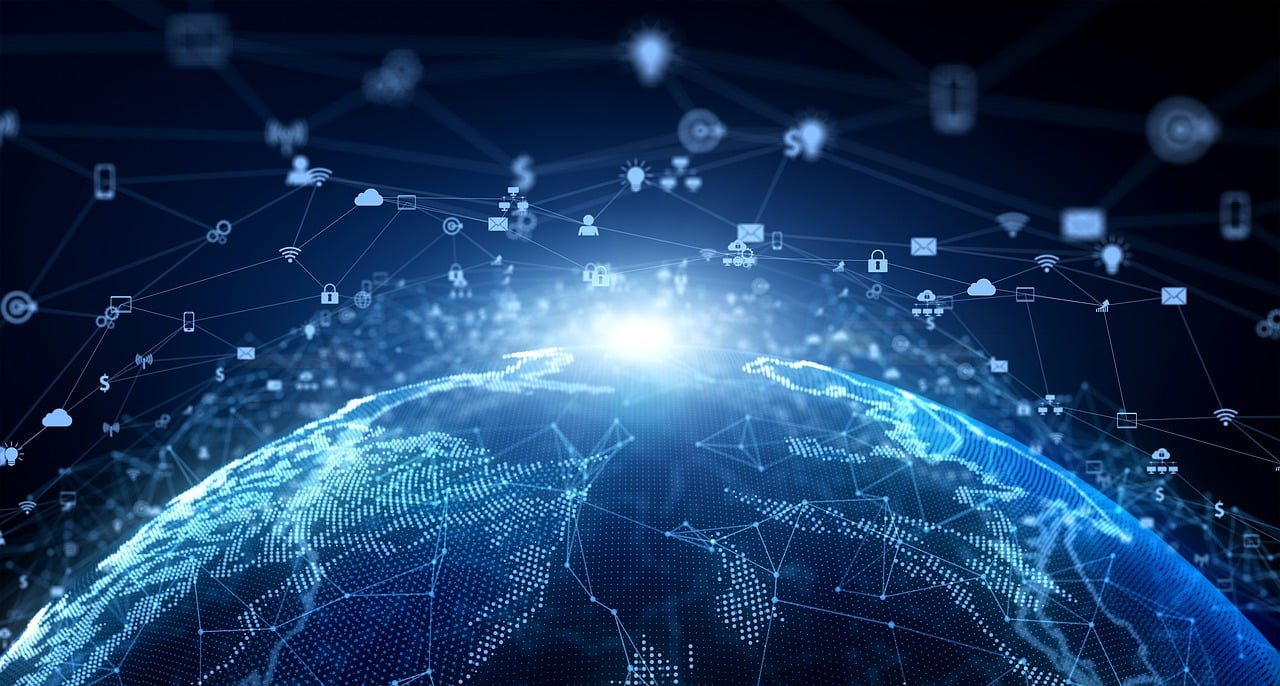
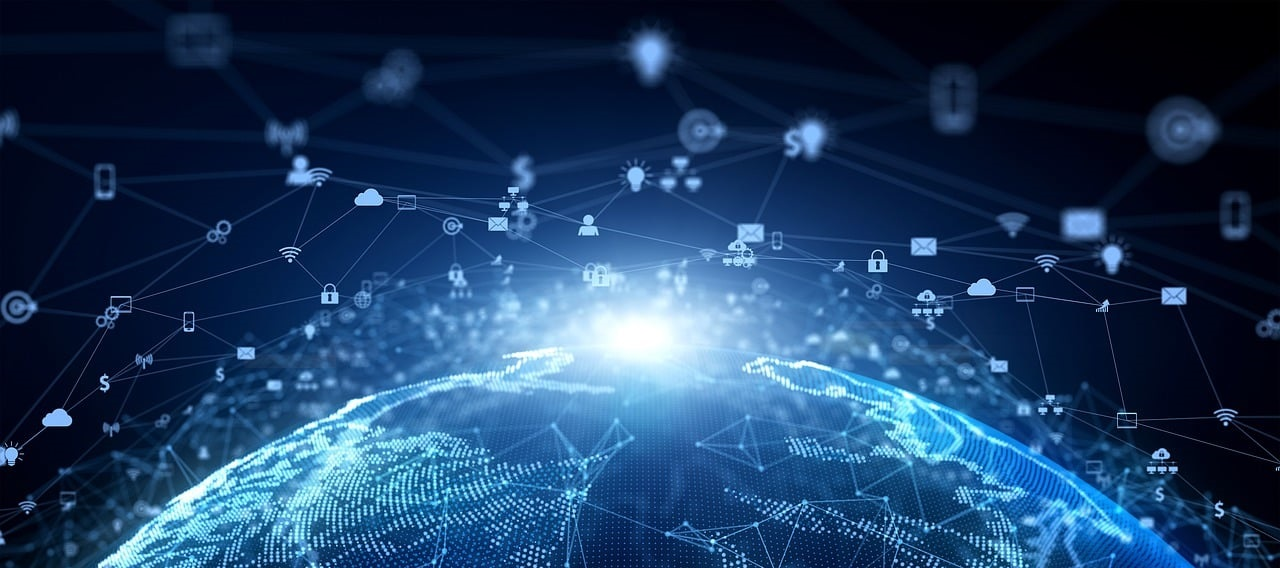
cambios de estilo

diff --git a/index.html b/index.html
@@ -19,7 +19,7 @@
       <div class="collapse navbar-collapse" id="navbarNav">
         <ul class="navbar-nav ms-auto">
           <li class="nav-item">
-            <a class="nav-link text-white" href="#locations">Ley general de protección de datos</a>
+            <a class="nav-link text-white" href="#lgpd">Ley general de protección de datos</a>
           </li>
           <li class="nav-item">
             <a class="nav-link text-white" href="#team">Ley de propiedad industrial</a>
@@ -44,18 +44,50 @@
       </div>
     </div>
   </nav>
-
-  
-
   <!-- Hero Section -->
   <section id="hero" class="d-flex flex-column align-items-center justify-content-center">
-    <div class="hero-content text-center text-white">
-      <h1 class="display-1 fw-bold">Seguridad Informática</h1>
-      <p class="lead">
-        La seguridad informática es el conjunto de prácticas, tecnologías y políticas diseñadas para proteger sistemas, <br> redes y datos de accesos no autorizados, ataques, daños o robos. Su objetivo principal es garantizar la confidencialidad, integridad <br> y disponibilidad de la información.
-      </p>
+    <div id="carouselHero" class="carousel slide" data-bs-ride="carousel">
+      <div class="carousel-inner">
+        <!-- Primera imagen del carrusel -->
+        <div class="carousel-item active">
+          <img src="modulos/images/img1.jpg" class="d-block w-100" alt="Imagen 1">
+          <div class="carousel-caption">
+            <h1 class="display-1 fw-bold">Seguridad Informática</h1>
+            <p class="fw-bold">
+              La seguridad informática es el conjunto de prácticas, tecnologías y políticas diseñadas para proteger sistemas, redes y datos de accesos no autorizados, ataques, daños o robos. Su objetivo principal es garantizar la confidencialidad, integridad y disponibilidad de la información.
+            </p>
+          </div>
+        </div>
+        <!-- Segunda imagen del carrusel -->
+        <div class="carousel-item">
+          <img src="modulos/images/img3.png" class="d-block w-100" alt="Imagen 2">
+          <div class="carousel-caption">
+            <h1 class="display-1 fw-bold">Protección de Datos</h1>
+            <p class="fw-bold">Garantizar la privacidad y protección de la información sensible es fundamental en el mundo digital.</p>
+          </div>
+        </div>
+        <!-- Tercera imagen del carrusel -->
+        <div class="carousel-item">
+          <img src="modulos/images/img5.jpg" class="d-block w-100" alt="Imagen 3">
+          <div class="carousel-caption">
+            <h1 class="display-1 fw-bold">Ciberseguridad</h1>
+            <p class="fw-bold">La ciberseguridad busca proteger los sistemas y redes frente a amenazas digitales.</p>
+          </div>
+        </div>
+      </div>
+      <!-- Controles del carrusel -->
+      <button class="carousel-control-prev" type="button" data-bs-target="#carouselHero" data-bs-slide="prev">
+        <span class="carousel-control-prev-icon" aria-hidden="true"></span>
+        <span class="visually-hidden">Anterior</span>
+      </button>
+      <button class="carousel-control-next" type="button" data-bs-target="#carouselHero" data-bs-slide="next">
+        <span class="carousel-control-next-icon" aria-hidden="true"></span>
+        <span class="visually-hidden">Siguiente</span>
+      </button>
     </div>
 </section>
+
+  
 
 
 
@@ -84,17 +116,7 @@
               </div>
           </div>
       </div>
-      <div class="row">
-        <div class="col-md-3 mb-4">
-          <div class="card">
-              <div class="card-body bg-black text-white">
-                  <h5 class="card-title">ISO 17799</h5>
-                  <p class="card-text">Un código de buenas prácticas para la gestión de la seguridad de la información, enfocado en los controles de seguridad que se deben implementar.</p>
-                  <a href="#" class="card-link">Saber Mas...</a>
-              </div>
-          </div>
-      </div>
-      </div>
+
   </div>
 </section>
 
@@ -104,12 +126,10 @@
 <section id="team" class="py-5 text-center bg-white text-dark">
   <div class="container">
       <h2 class="display-4 mb-4">Ley de Propiedad Industrial</h2>
-    
       <br>
-
             <div class="row justify-content-center">
-          <div class="col-md-10">
-              <div class="card" style="background-color: #001f3f; border: 1px solid white;">
+          <div class="col-md-12 mb-12">
+              <div class="card" style="background-color: #001f3f; border: 1px solid white; height: 10%; width: 90%;">
                   <div class="card-body">
                       <h5 class="card-title text-white">¿Qué es la Ley de Propiedad Industrial?</h5>
                       <ul class="list-group list-group-flush" style="background-color: #001f3f;">
@@ -128,27 +148,6 @@
                     <a href="https://www.gob.mx/impi/documentos/ley-federal-de-proteccion-a-la-propiedad-industrial-274304" class="card-link text-white" target="_blank">Más Información sobre la Ley de Propiedad Industrial</a><br>
                     <a href="https://www.gob.mx/cms/uploads/attachment/file/645081/LFPPI.pdf" class="card-link text-white" target="_blank">Descargar Ley de Propiedad Industrial</a>
                 </div>
-              </div>
-          </div>
-      </div>
-
-      <div class="row">
-          <div class="col-md-3 mb-4">
-              <div class="card">
-                  <div class="card-body bg-black text-white">
-                      <h5 class="card-title">ISO 27001</h5>
-                      <p class="card-text">Un estándar de seguridad que especifica los requisitos para establecer, implementar, mantener y mejorar un Sistema de Gestión de Seguridad de la Información.</p>
-                      <a href="#" class="card-link">Saber Mas...</a>
-                  </div>
-              </div>
-          </div>
-          <div class="col-md-3 mb-4">
-              <div class="card">
-                  <div class="card-body bg-black text-white">
-                      <h5 class="card-title">ISO 17799</h5>
-                      <p class="card-text">Un código de buenas prácticas para la gestión de la seguridad de la información, enfocado en los controles de seguridad que se deben implementar.</p>
-                      <a href="#" class="card-link">Saber Mas...</a>
-                  </div>
               </div>
           </div>
       </div>
@@ -236,8 +235,8 @@
         <p class="lead text-dark">Los estándares del manejo de la información son directrices y prácticas recomendadas que las organizaciones siguen para gestionar <br> la información de manera segura y eficiente. Estos estándares ayudan a proteger la integridad, confidencialidad <br> y disponibilidad de los datos, garantizando que se manejen de acuerdo con las mejores prácticas y requisitos legales.</p>
         <br>
         <div class="row">
-          <div class="col-md-3 mb-4">
-            <div class="card" style="background-color: #001f3f; border: 1px solid white;">
+          <div class="col-md-6 mb-8">
+            <div class="card" style="background-color: #001f3f; border: 1px solid white; margin: 10px;">
               <div class="card-body">
                 <h5 class="card-title text-white">ISO 27001</h5>
                 <ul class="list-group list-group-flush" style="background-color: #001f3f;">
@@ -250,8 +249,8 @@
               </div>
             </div>
           </div>
-          <div class="col-md-3 mb-4">
-            <div class="card" style="background-color: #001f3f; border: 1px solid white;">
+          <div class="col-md-6 mb-8">
+            <div class="card" style="background-color: #001f3f; border: 1px solid white; margin: 10px; height: 94%;">
               <div class="card-body">
                 <h5 class="card-title text-white">ISO 17799</h5>
                 <ul class="list-group list-group-flush" style="background-color: #001f3f;">
@@ -264,8 +263,8 @@
               </div>
             </div>
           </div>
-          <div class="col-md-3 mb-4">
-            <div class="card" style="background-color: #001f3f; border: 1px solid white;">
+          <div class="col-md-6 mb-8">
+            <div class="card" style="background-color: #001f3f; border: 1px solid white; margin: 10px;">
               <div class="card-body">
                 <h5 class="card-title text-white">COBIT</h5>
                 <ul class="list-group list-group-flush" style="background-color: #001f3f;">
@@ -278,8 +277,8 @@
               </div>
             </div>
           </div>
-          <div class="col-md-3 mb-4">
-            <div class="card" style="background-color: #001f3f; border: 1px solid white;">
+          <div class="col-md-6 mb-8">
+            <div class="card" style="background-color: #001f3f; border: 1px solid white; margin: 10px;">
               <div class="card-body">
                 <h5 class="card-title text-white">NIST</h5>
                 <ul class="list-group list-group-flush" style="background-color: #001f3f;">
@@ -292,8 +291,8 @@
               </div>
             </div>
           </div>
-          <div class="col-md-3 mb-4"></div>
-            <div class="card" style="background-color: #001f3f; border: 1px solid white;">
+          <div class="col-md-6 mb-8"></div>
+            <div class="card" style="background-color: #001f3f; border: 1px solid white; margin: 20px;  width: 96.5%; ">
               <div class="card-body">
                 <h5 class="card-title text-white">ITIL</h5>
                 <ul class="list-group list-group-flush" style="background-color: #001f3f;">

diff --git a/modulos/styles.css b/modulos/styles.css
@@ -15,30 +15,28 @@ body {
   #hero {
     position: relative;
     width: 100%;
-    height: 100vh; /* Ajusta esto según el tamaño de la sección que quieras */
+    height: 100vh; /* Ocupa toda la altura de la ventana */
     overflow: hidden;
   }
   
-  
-  #hero {
-    position: relative;
-    width: 100%;
-    height: 100vh; /* Ocupa la altura completa de la ventana */
-    background: url('images/img5.jpg') no-repeat center center;
-    background-size: cover; /* Asegura que la imagen cubra todo el área */
-    display: flex;
-    justify-content: center;
-    align-items: center;
+  .carousel-item img {
+    width: 100%;    /* Abarca el 100% del ancho */
+    height: 100vh;  /* Abarca el 100% de la altura de la ventana */
+    object-fit: cover; /* Mantiene la proporción de la imagen y la ajusta al tamaño del contenedor */
   }
-  .hero-content {
+  
+  .carousel-caption {
     z-index: 1;
     color: white;
-    text-shadow: 2px 2px 8px rgba(0, 0, 0, 0.7); /* Mejora la legibilidad del texto */
+    text-shadow: 2px 2px 8px rgba(0, 0, 0, 0.7); /* Mantén la sombra del texto */
   }
+  
   
   h1, p {
     margin: 0;
   }
+  
+  
   .logo {
     margin: 20px 0;
     width: 150px;
